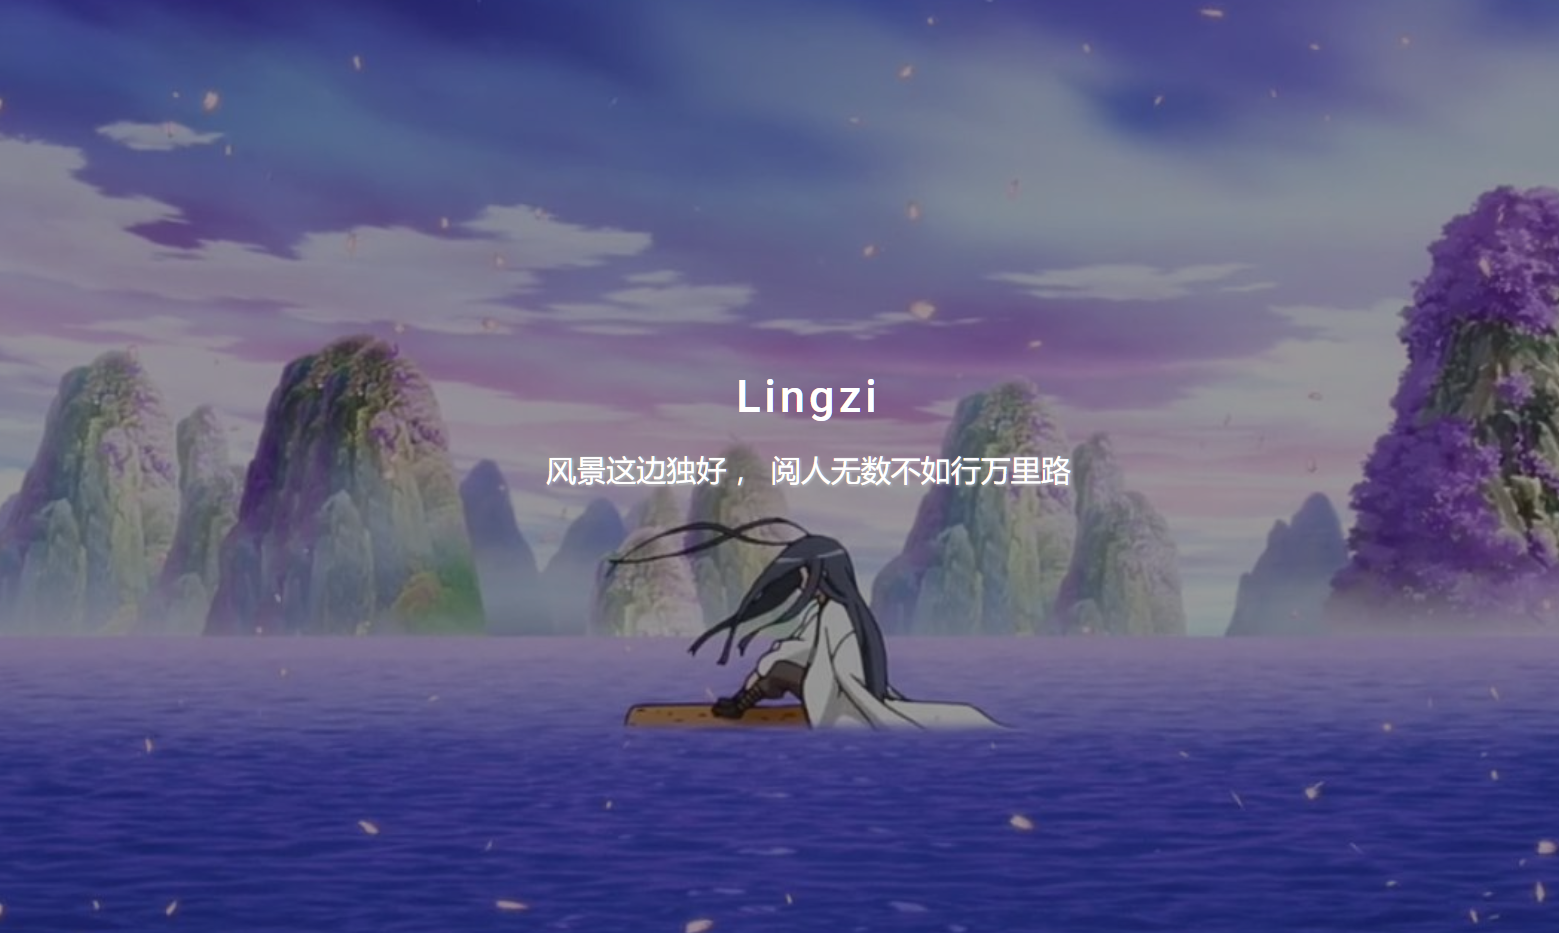
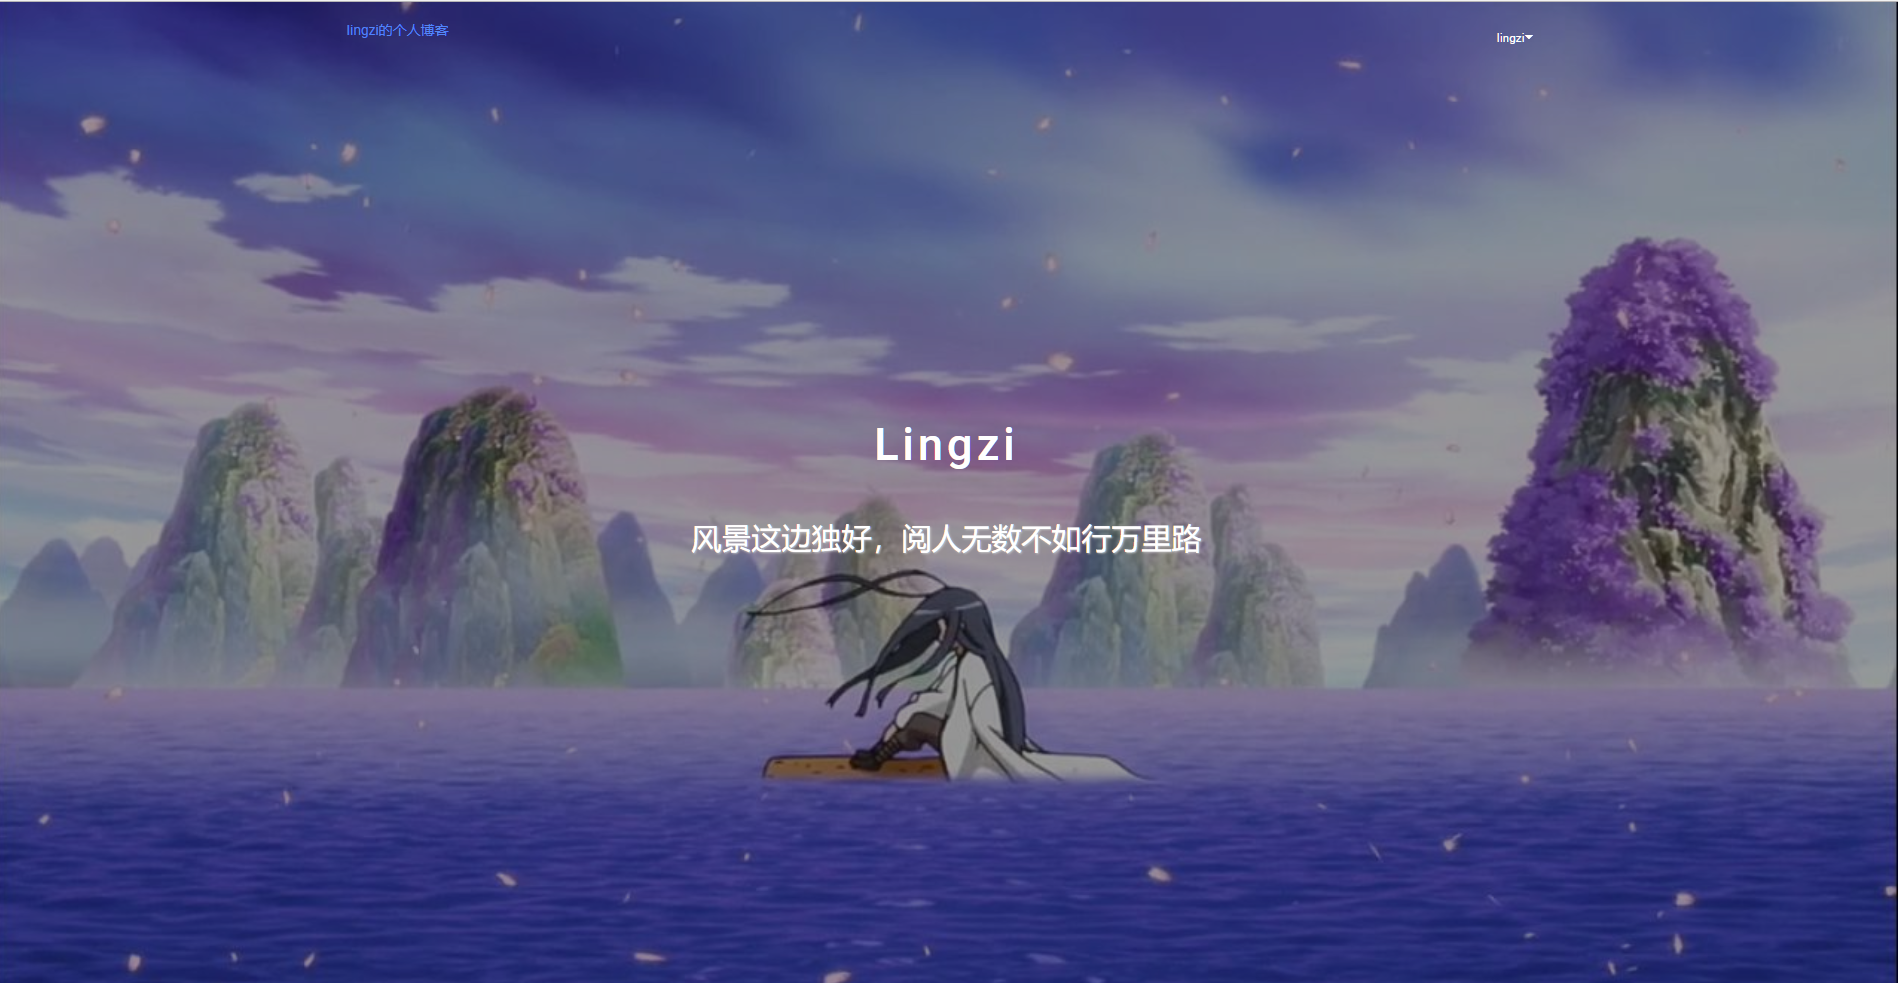
说明文档优化

diff --git a/src/pages/Home/components/List/List.scss b/src/pages/Home/components/List/List.scss
@@ -38,7 +38,7 @@ $width: 800px;
 			font-size: 16px;
 			line-height: 28px;
 			margin-bottom: 20px;
-			max-height: 90px;
+			max-height: 75px;
 			overflow: hidden;
 		}
 		.time {

diff --git a/README.md b/README.md
@@ -1,6 +1,7 @@
 # ice-blog
 
-该模板适用于产品类的首页介绍，默认内置一个页面和五个不同风格的展示区块
+用阿里飞冰做的简单博客
+功能： 登录、文章列表、发布、管理文章
 
 > 使用文档
 
@@ -9,16 +10,7 @@
 * 启动调试服务: `npm start`
 * 构建 dist: `npm run build`
 
-目录结构:
-
-* react-router @4.x 默认采用 hashHistory 的单页应用
-* 入口文件: `src/index.js`
-* 导航配置: `src/menuConfig.js`
-* 路由配置: `src/routerConfig.js`
-* 路由入口: `src/router.jsx`
-* 布局文件: `src/layouts`
-* 通用组件: `src/components`
-* 页面文件: `src/pages`
 
 效果图:
 ![screenshot](./result.png)
+![screenshot](./result1.png)
